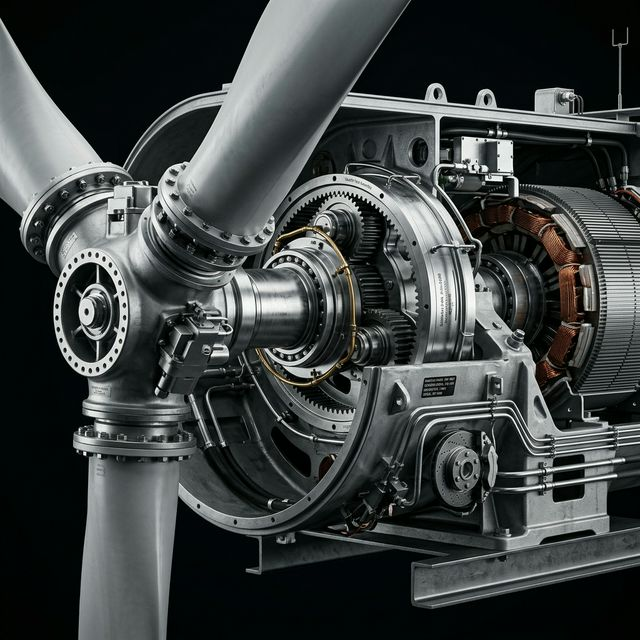
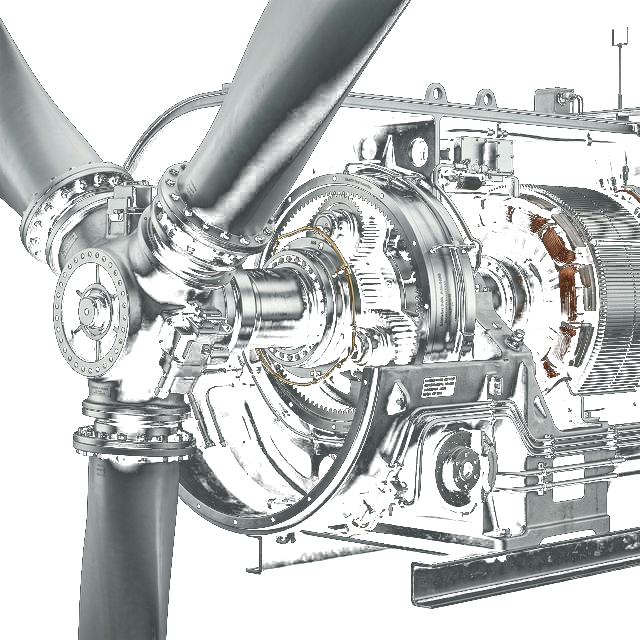
fix(images): remove dark backgrounds from asset PNGs and enable mix-blend-screen

diff --git a/src/components/EngineeringImage.jsx b/src/components/EngineeringImage.jsx
@@ -10,7 +10,7 @@ export default function EngineeringImage({
       <img 
         src={src} 
         alt={alt} 
-        className="w-full h-auto max-h-[480px] object-contain transition-transform duration-500 ease-out group-hover:scale-[1.02]"
+        className="w-full h-auto max-h-[480px] object-contain mix-blend-screen transition-transform duration-500 ease-out group-hover:scale-[1.03] filter drop-shadow-[0_10px_25px_rgba(229,27,35,0.15)]"
         loading="lazy"
       />
     </div>
